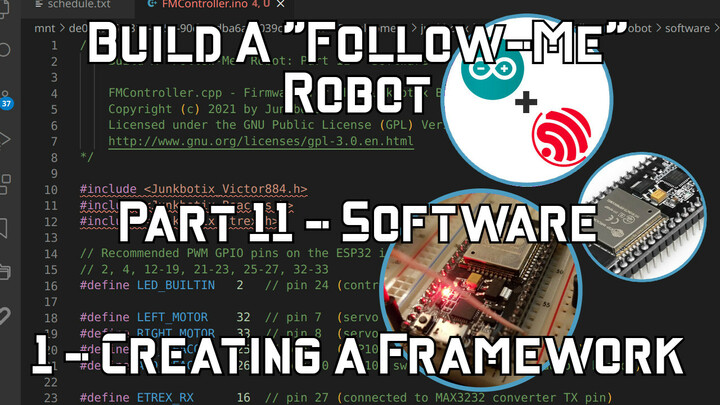
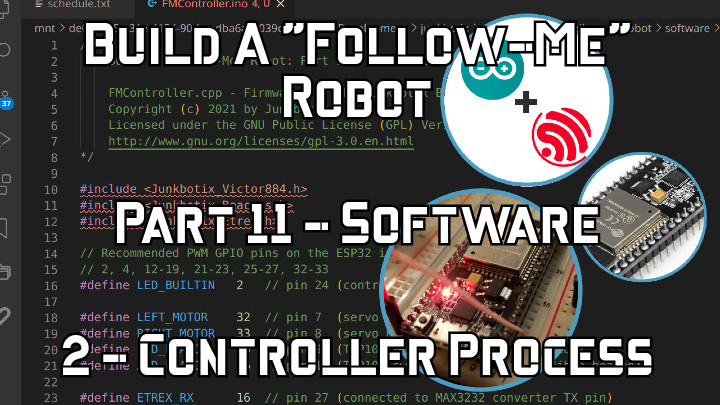
updating links to video for part 11.2 - Software Controller Process

diff --git a/README.md b/README.md
@@ -4,7 +4,7 @@
 
 ## Watch now on YouTube:
 
-[![Part 11.1](./software/images/title-720px.jpg)](https://www.youtube.com/watch?v=7EC0L8-eelA)
+[![Part 11.2](./software/images/title-720px.jpg)](https://www.youtube.com/watch?v=iMA3Dr8FVeg)
 
 Check out the latest on this project and other tutorials at the [Junkbotix Channel](https://www.youtube.com/channel/UCNxQ47xBEYjD-mey_lxj9Aw) on Youtube!
 

diff --git a/software/README.md b/software/README.md
@@ -2,7 +2,7 @@
 
 <br>
 
-[![Part 11.1](./images/title-720px.jpg)](https://www.youtube.com/watch?v=7EC0L8-eelA)
+[![Part 11.2](./images/title-720px.jpg)](https://www.youtube.com/watch?v=iMA3Dr8FVeg)
 
 Check out the latest on this project and other tutorials at the [Junkbotix Channel](https://www.youtube.com/channel/UCNxQ47xBEYjD-mey_lxj9Aw) on Youtube!
 
